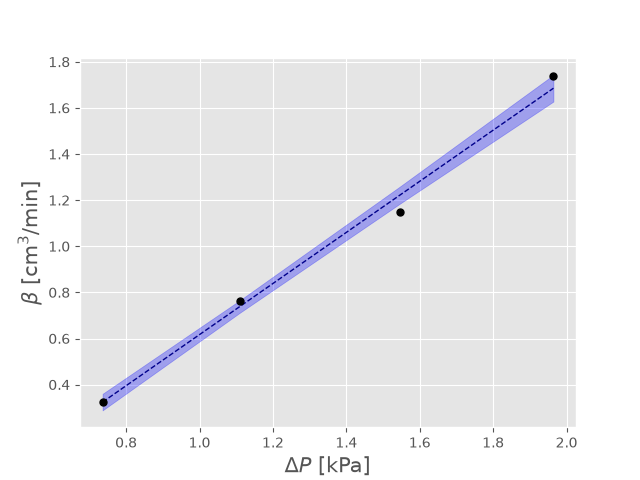
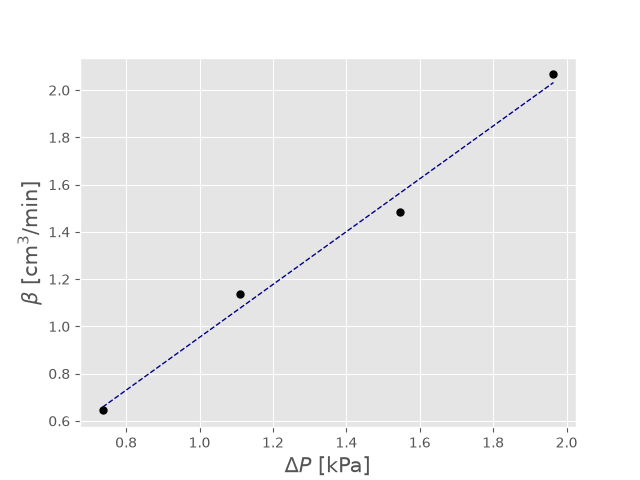
fatto tenuta cilindro

diff --git a/tenuta_cilindro.py b/tenuta_cilindro.py
@@ -15,6 +15,11 @@ P_0 = 101.11 # kPa
 
 dm = 0.1 # g
 
+piston_diameter = 3.25 # cm
+error_piston_diameter = 0.01 # cm
+S = (np.pi/4)*(piston_diameter)**2
+print(S)
+
 df_beta = pd.DataFrame({
     "P": [],
     "beta": [],
@@ -22,7 +27,7 @@ df_beta = pd.DataFrame({
 })
 
 for i in range(1, 5):
-    data_vol = converti(f"./misure/Tenuta_cilindro/posizione_senza_termometro/{i+1}.txt")
+    data_vol = converti(f"./misure/Tenuta_cilindro/posizione/{i+1}.txt")
     data_vol["Posizione(m)"] = -data_vol["Posizione(m)"]*1.e2 # converto in cm ed inverto
     if (i == 4):
         data_vol = data_vol.drop(data_vol[(data_vol['Tempo(s)'] > 80)].index)
@@ -41,21 +46,22 @@ for i in range(1, 5):
     print("alpha: ", alpha)
     print("p_value: ", fit.get_chi2().pvalue)
 
-    fig, ax = plt.subplots()
-    fig.set_size_inches(8, 5)
-    fit.graph(ax, ("$t$ [s]", "$h(t)$ [m]"), 2, 15)
-    ax.set_title(f"$m$ = {M[i]} g", fontsize=18)
-    plt.savefig(f"./immagini/tenuta_cilindro/senza_termometro/posizione_{i+1}.png")
-    plt.show()
+    # fig, ax = plt.subplots()
+    # fig.set_size_inches(8, 5)
+    # fit.graph(ax, ("$t$ [s]", "$h(t)$ [m]"), 2, 15)
+    # ax.set_title(f"$m$ = {M[i]} g", fontsize=18)
+    # plt.savefig(f"./immagini/tenuta_cilindro/con_termometro/posizione_{i+1}.png")
+    # plt.show()
 
     # Ricava la superficie
-    data_p = converti(f"./misure/Tenuta_cilindro/pressione_senza_termometro/{i+1}.txt")
+    data_p = converti(f"./misure/Tenuta_cilindro/pressione/{i+1}.txt")
     P = data_p["Pressione(kPa)"].mean() # media
     dP = np.sqrt(0.005**2 + (data_p["Pressione(kPa)"].std(ddof=1)**2)/data_p.__len__()) #kPa
 
-    S = ((M[i]*G)/P)*1.e-2 # mm^2 -> cm^2
+    #S = ((M[i]*G)/P)*1.e-2 # mm^2 -> cm^2
 
-    dS = G * (M[i]/P)*np.sqrt((dm/M[i])**2 + (dP/P)**2) * 1.e-2
+    #dS = G * (M[i]/P)*np.sqrt((dm/M[i])**2 + (dP/P)**2) * 1.e-2
+    dS = (np.pi/2)*piston_diameter*error_piston_diameter # cm^2
 
     alpha = alpha*60 # cm/s -> cm/min
     d_alpha = np.sqrt(fit.get_fit_params()[1][0][0]) * 60
@@ -69,12 +75,23 @@ for i in range(1, 5):
 
 print(df_beta)
 
-fit_beta = LinearFit(df_beta, "P", "beta", "d_beta")
+fit_beta_ws = LinearFit(df_beta, "P", "beta")
 
 fig, ax = plt.subplots()
-fit_beta.graph(ax, ("$\\Delta P$ [kPa]", "$\\beta$ [cm$^3$/min]"), 5, 15)
-plt.savefig("./immagini/tenuta_cilindro/senza_termometro/beta.png")
+fit_beta_ws.graph(ax, ("$\\Delta P$ [kPa]", "$\\beta$ [cm$^3$/min]"), 5, 15)
+plt.savefig("./immagini/tenuta_cilindro/con_termometro/beta.png")
 plt.show()
 
-print(fit_beta.get_chi2().chi2)
+# Aggiorno le sigma con il metodo dei residui
+d_beta_new = fit_beta_ws.get_chi2()[1]
+df_beta['d_beta'] = np.repeat(d_beta_new, df_beta.__len__())
+print(df_beta)
 
+# Fitto con le nuove sigma
+fig, ax = plt.subplots()
+fit_beta = LinearFit(df_beta, "P", "beta", "d_beta")
+fit_beta.graph(ax, ("$\\Delta P$ [kPa]", "$\\beta$ [cm$^3$/min]"), 5, 15)
+plt.show()
+
+print("chi2 = ", fit_beta.get_chi2().chi2)
+print("p-value = ", fit_beta.get_chi2().pvalue)

diff --git a/mylib.py b/mylib.py
@@ -50,7 +50,7 @@ class LinearFit:
             return Chi2(chi2, deg_f)
         else:
             chi2_0 = np.sum((residui**2))
-            sigma_res = np.sqrt(chi2_0) / deg_f
+            sigma_res = np.sqrt(chi2_0 / deg_f)
             return Chi2(chi2_0, deg_f), sigma_res
 
     
